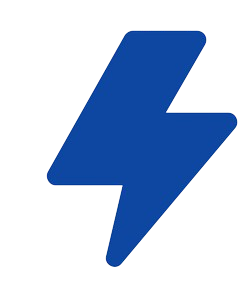
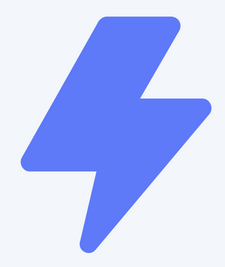
Update loading page

diff --git a/mobile/App.js b/mobile/App.js
@@ -11,6 +11,7 @@ import ConnectScreen from './ConnectScreen';
 import FlashCardsScreen from './FlashCardsScreen';
 import DataScreen from './DataScreen'; 
 import ProfileScreen from './ProfileScreen';
+import LinearGradient from 'react-native-linear-gradient';
 
 const Stack = createNativeStackNavigator();
 
@@ -29,7 +30,7 @@ function App() {
           <Image source={require('./assets/flash.png')} style={styles.flashIcon} />
           <Text style={styles.logoText}>IntelliLearn</Text>
         </View>
-        <ActivityIndicator size="large" color="#0D47A1" />
+        <ActivityIndicator size="large" color="#5F7AF9" />
       </View>
     );
   }
@@ -57,7 +58,7 @@ const styles = StyleSheet.create({
     flex: 1,
     justifyContent: 'center',
     alignItems: 'center',
-    backgroundColor: '#B3E5FC',
+    backgroundColor: '#F3F6FA',
   },
   logoContainer: {
     flexDirection: 'row',
@@ -72,10 +73,10 @@ const styles = StyleSheet.create({
   logoText: {
     fontSize: 36,
     fontWeight: 'bold',
-    color: '#0D47A1',
+    color: '#5F7AF9',
   },
   container: {
     flex: 1,
-    backgroundColor: '#B3E5FC',
+    backgroundColor: '#5F7AF9',
   },
 });

diff --git a/mobile/TestScreen.js b/mobile/TestScreen.js
@@ -1,5 +1,6 @@
 import React from 'react';
 import { View, Text, StyleSheet, TouchableOpacity, Image, TextInput } from 'react-native';
+import LinearGradient from 'react-native-linear-gradient';
 
 export default function TestScreen({ navigation }) {
   return (
@@ -227,7 +228,7 @@ const styles = StyleSheet.create({
     height: '100%',
     borderRadius: 10,
     backgroundColor: '#5F7AF9',
-    width: '50%', // Assumer 50% de progression, ajustez selon vos données
+    width: '50%', 
   },
 
 });
